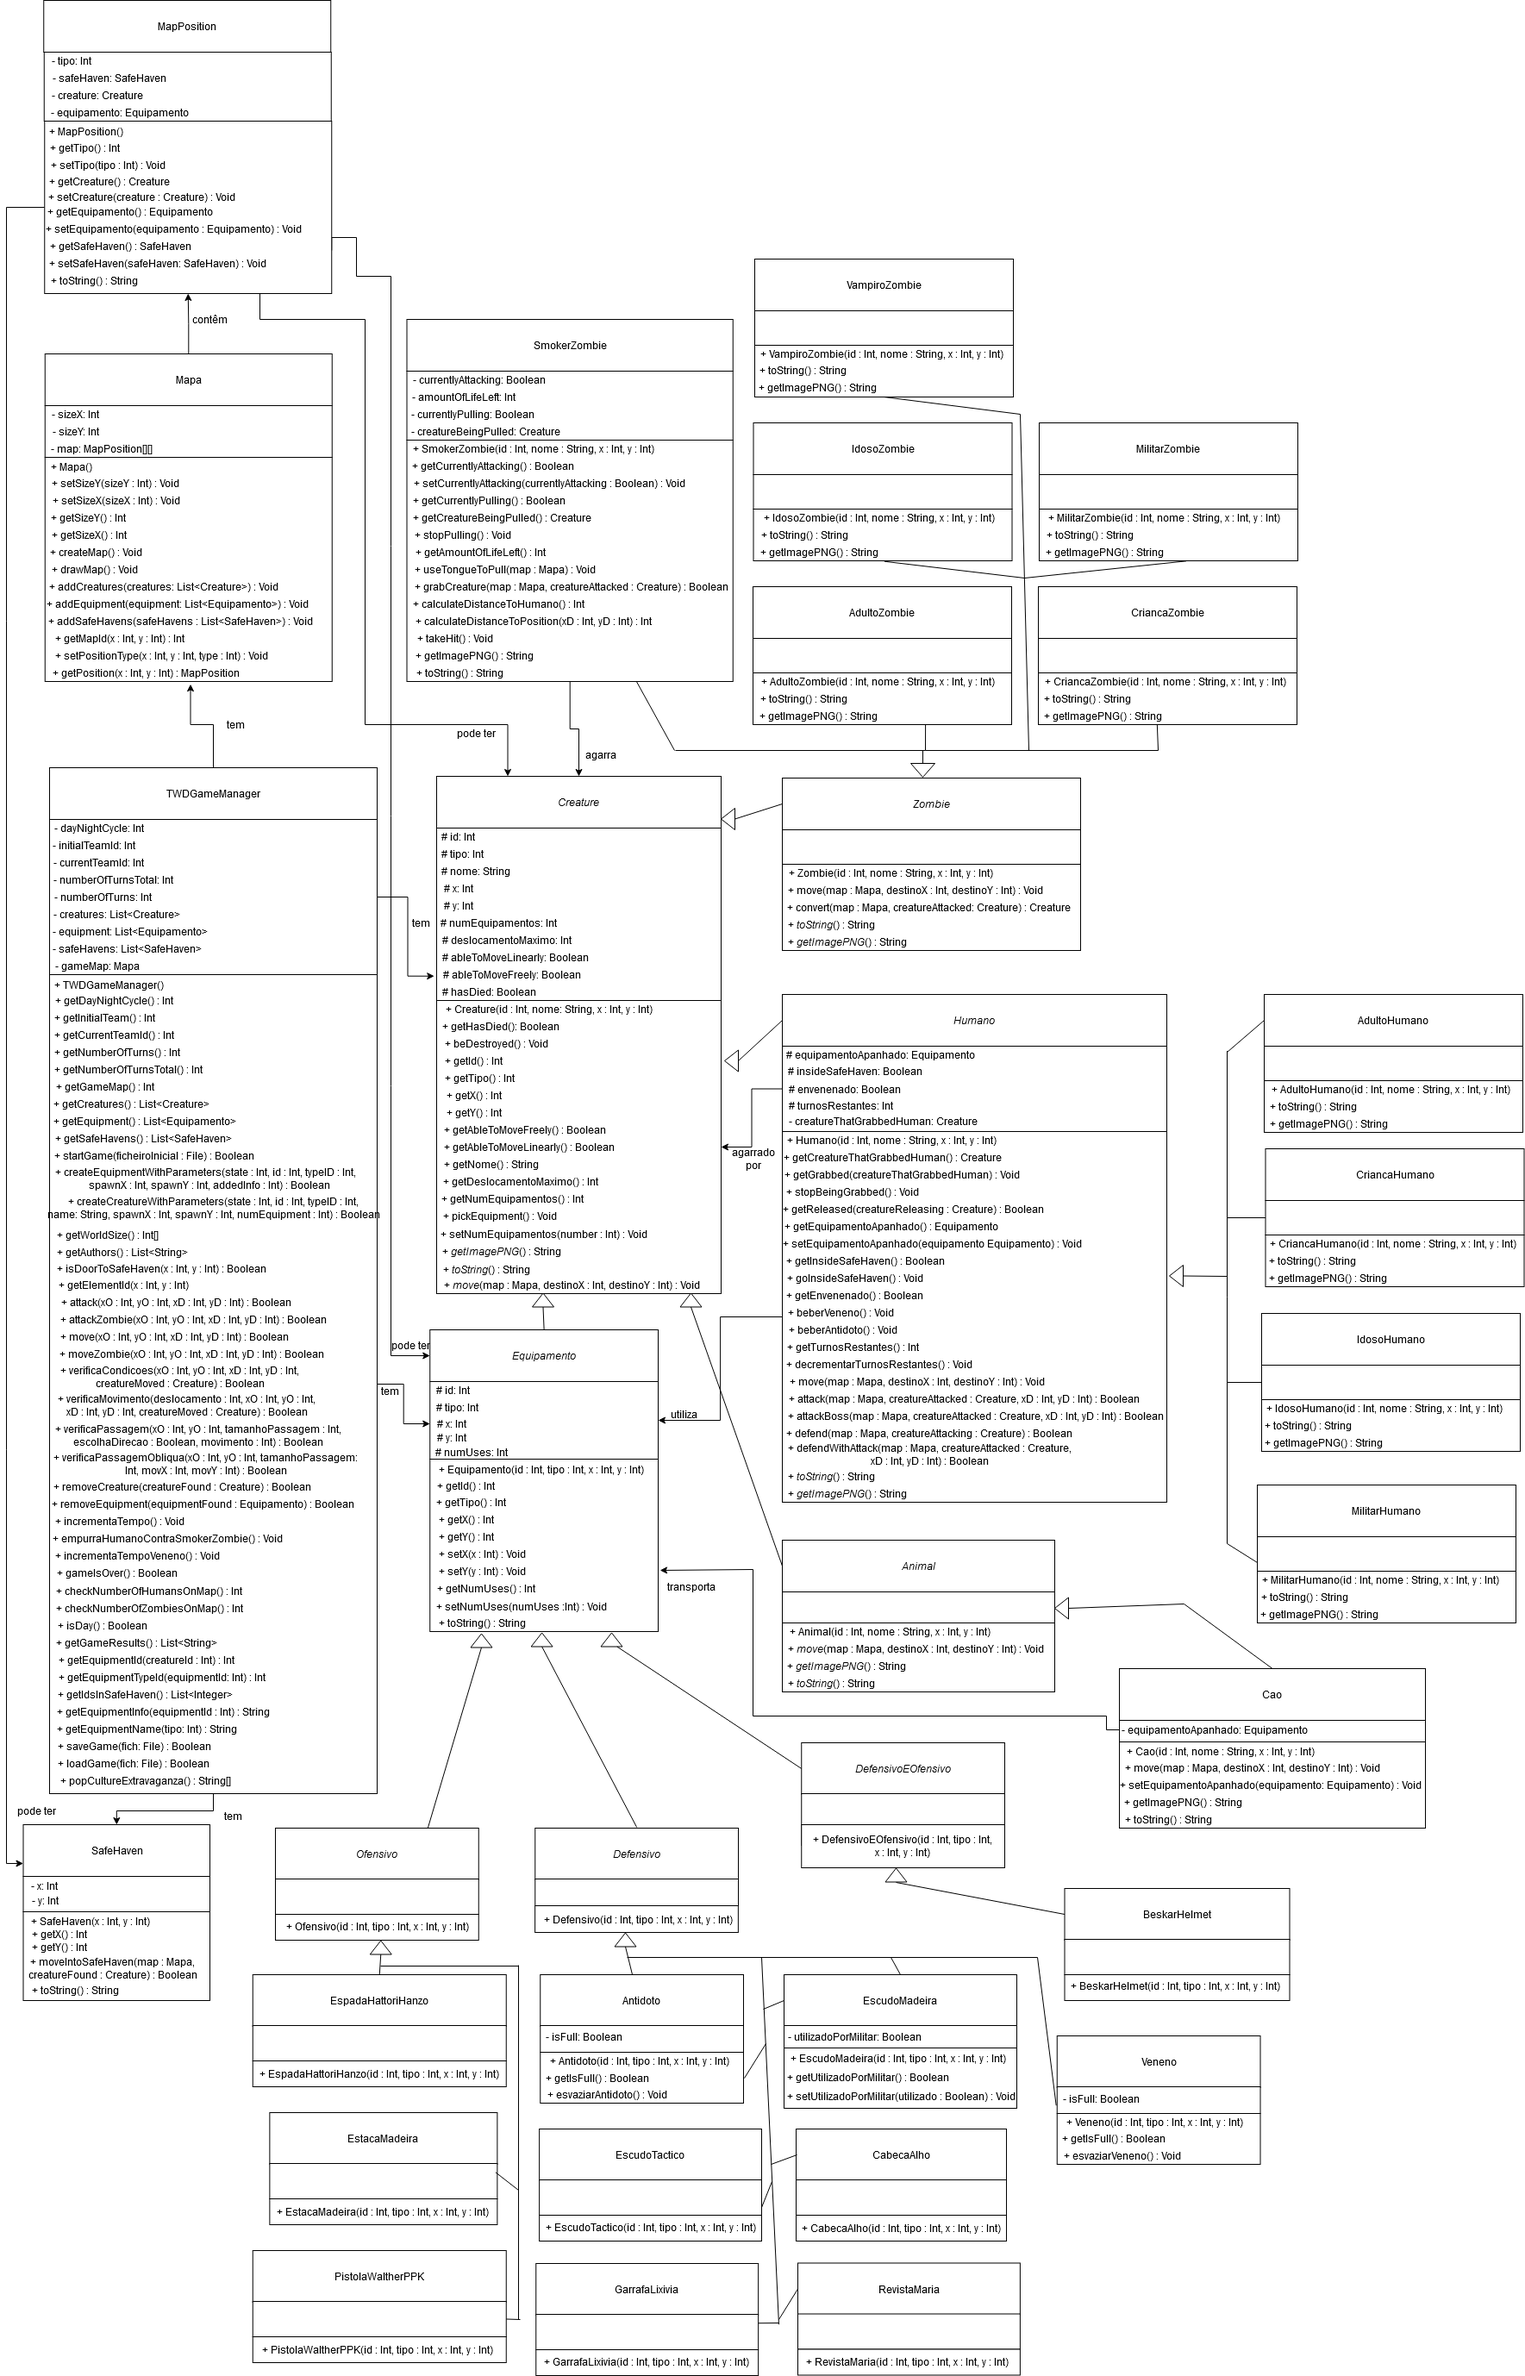
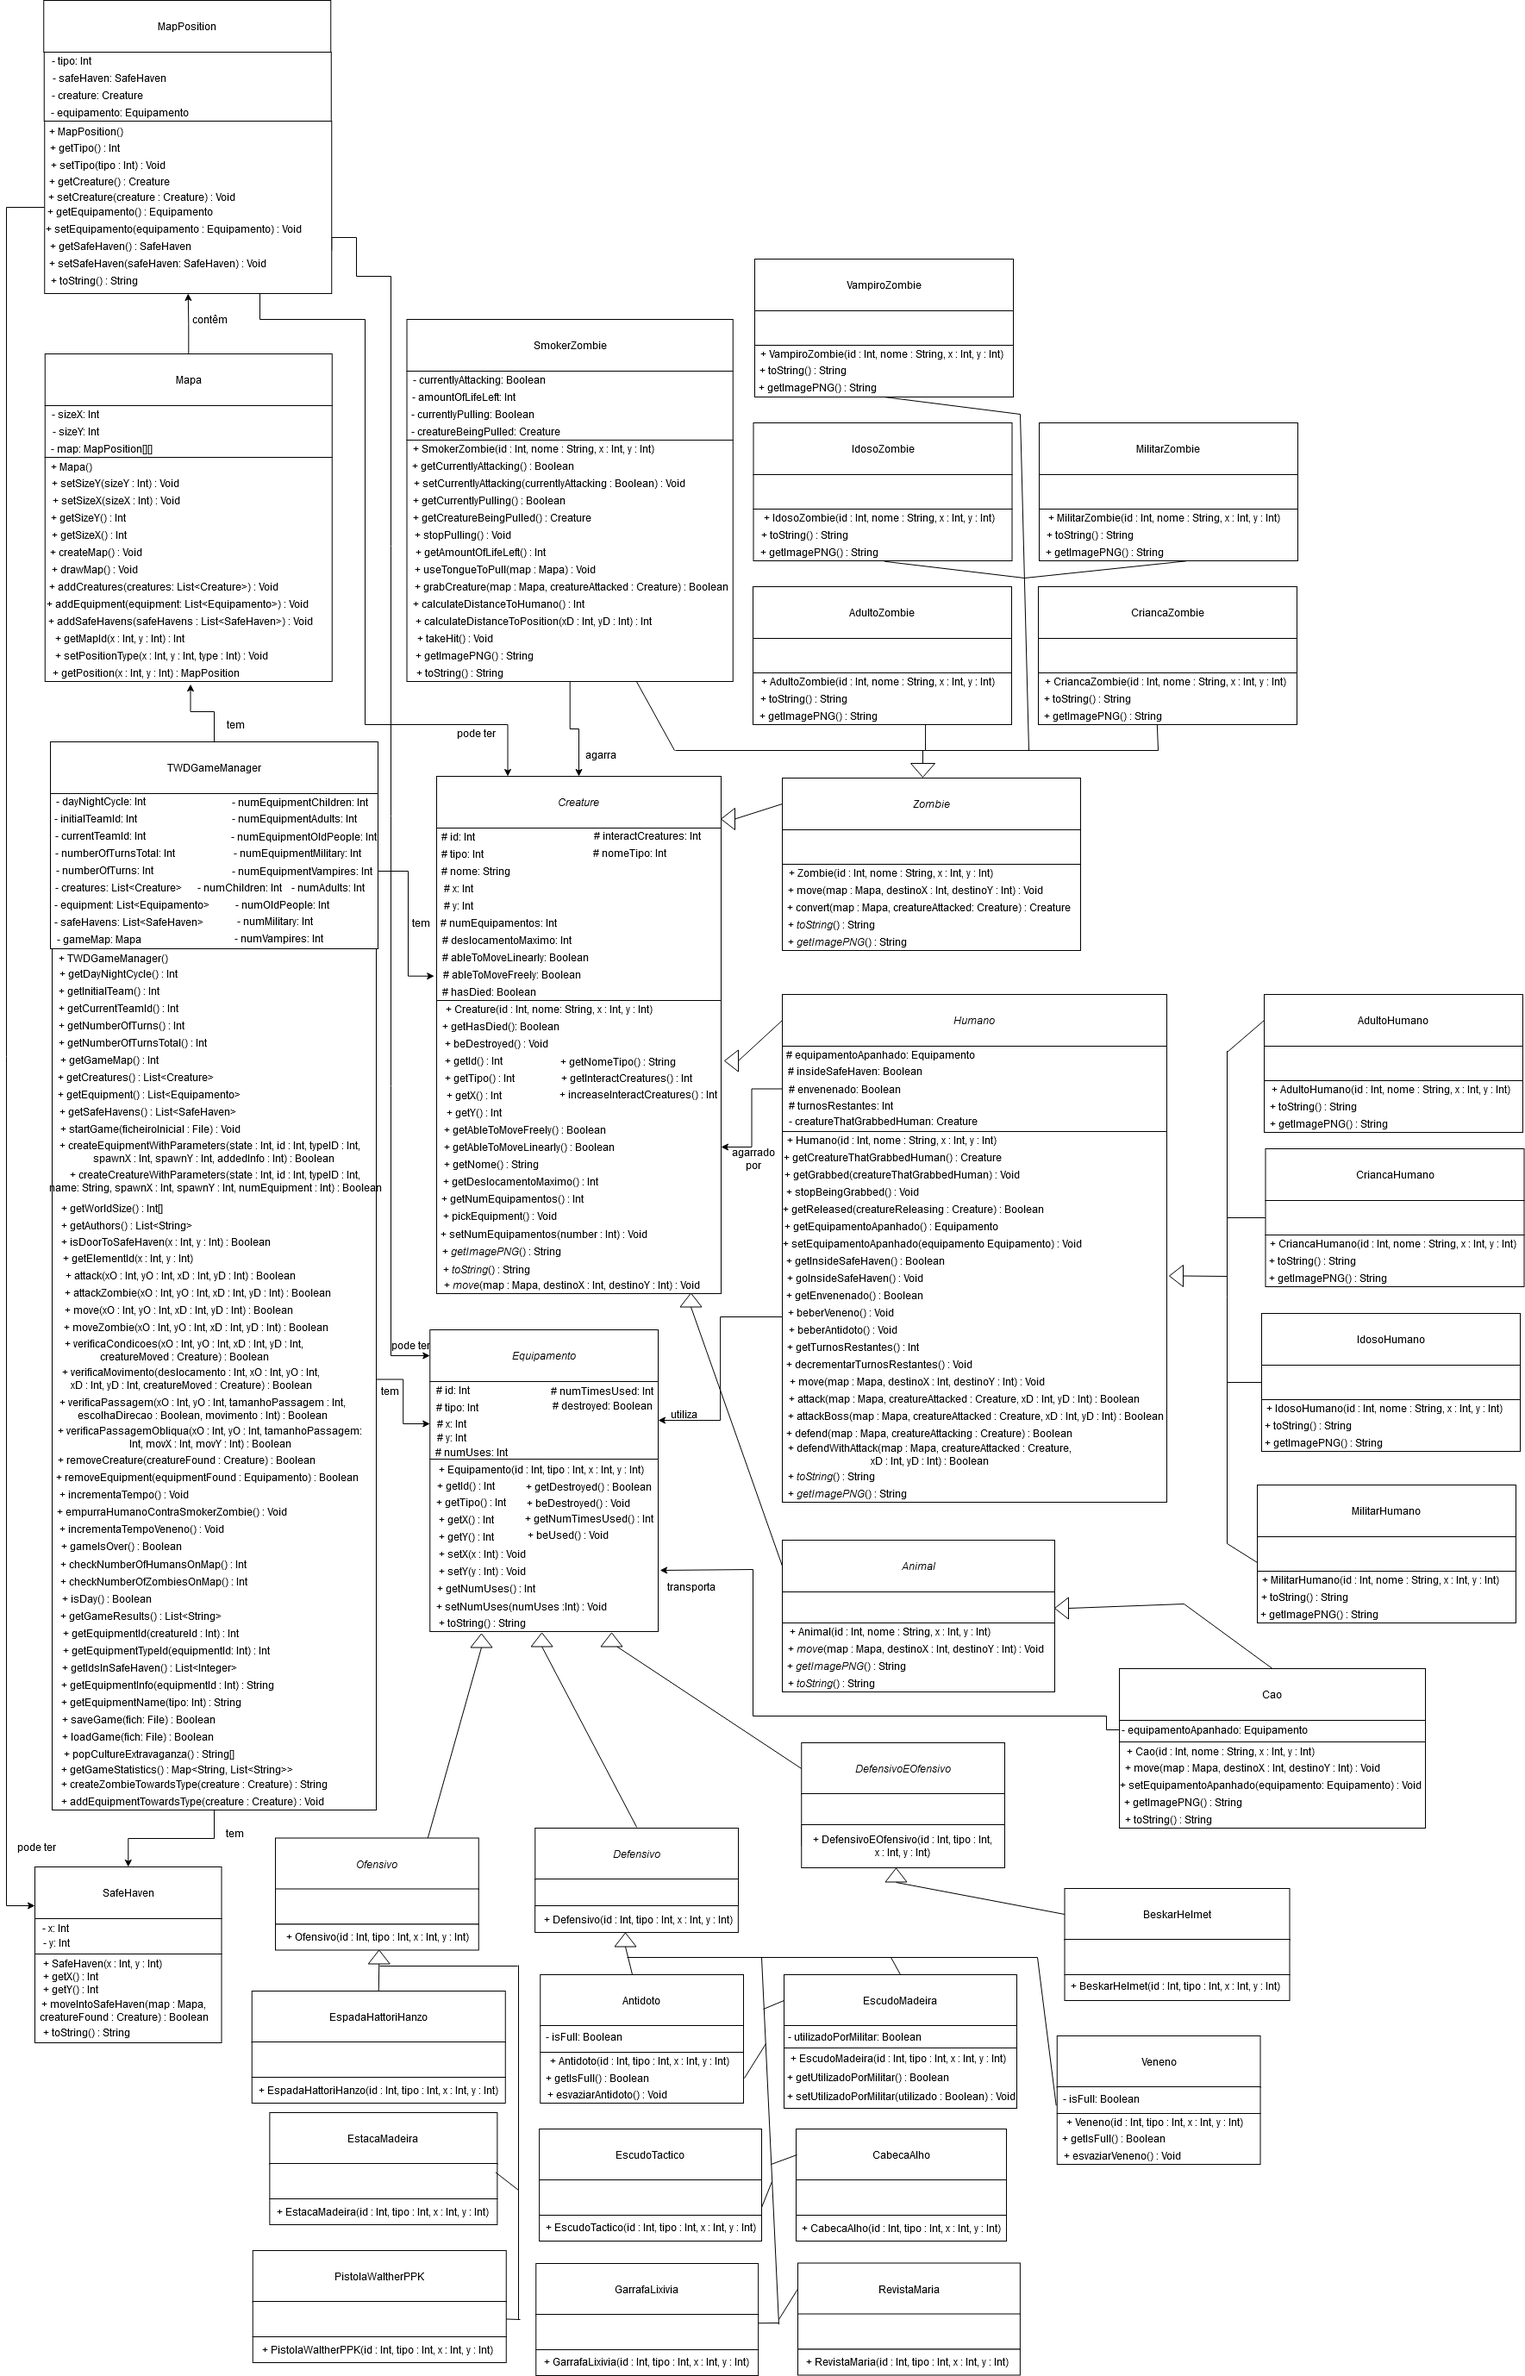
Changed the name of some of the variables and functions to fit the diagrama, and also added in the diagrama! This way, i have ended the project!

diff --git a/src/pt/ulusofona/lp2/theWalkingDEISIGame/TWDGameManager.java b/src/pt/ulusofona/lp2/theWalkingDEISIGame/TWDGameManager.java
@@ -317,7 +317,7 @@ public class TWDGameManager {
     }
 
     //Vamos utilizar variáveis globais para contar todas as variáveis que temos deste tipo
-    public String countEquipmentTowardsType(Creature creature) {
+    public String createZombieTowardsType(Creature creature) {
         String text;
 
         //Deve haver uma melhor maneira de fazer isto, mas por agora funciona
@@ -378,7 +378,7 @@ public class TWDGameManager {
         String tiposDeZombiesEquipamentosDestruidos = "tiposDeZombieESeusEquipamentosDestruidos";
         List<String> tiposZombiesEquipamentos = creatures.stream()
                 .filter(c -> c instanceof Zombie)
-                .map(c -> countEquipmentTowardsType(c))
+                .map(c -> createZombieTowardsType(c))
                 .distinct()
                 .collect(Collectors.toList());
         //System.out.println("Size == " + tiposZombiesEquipamentos.size());
